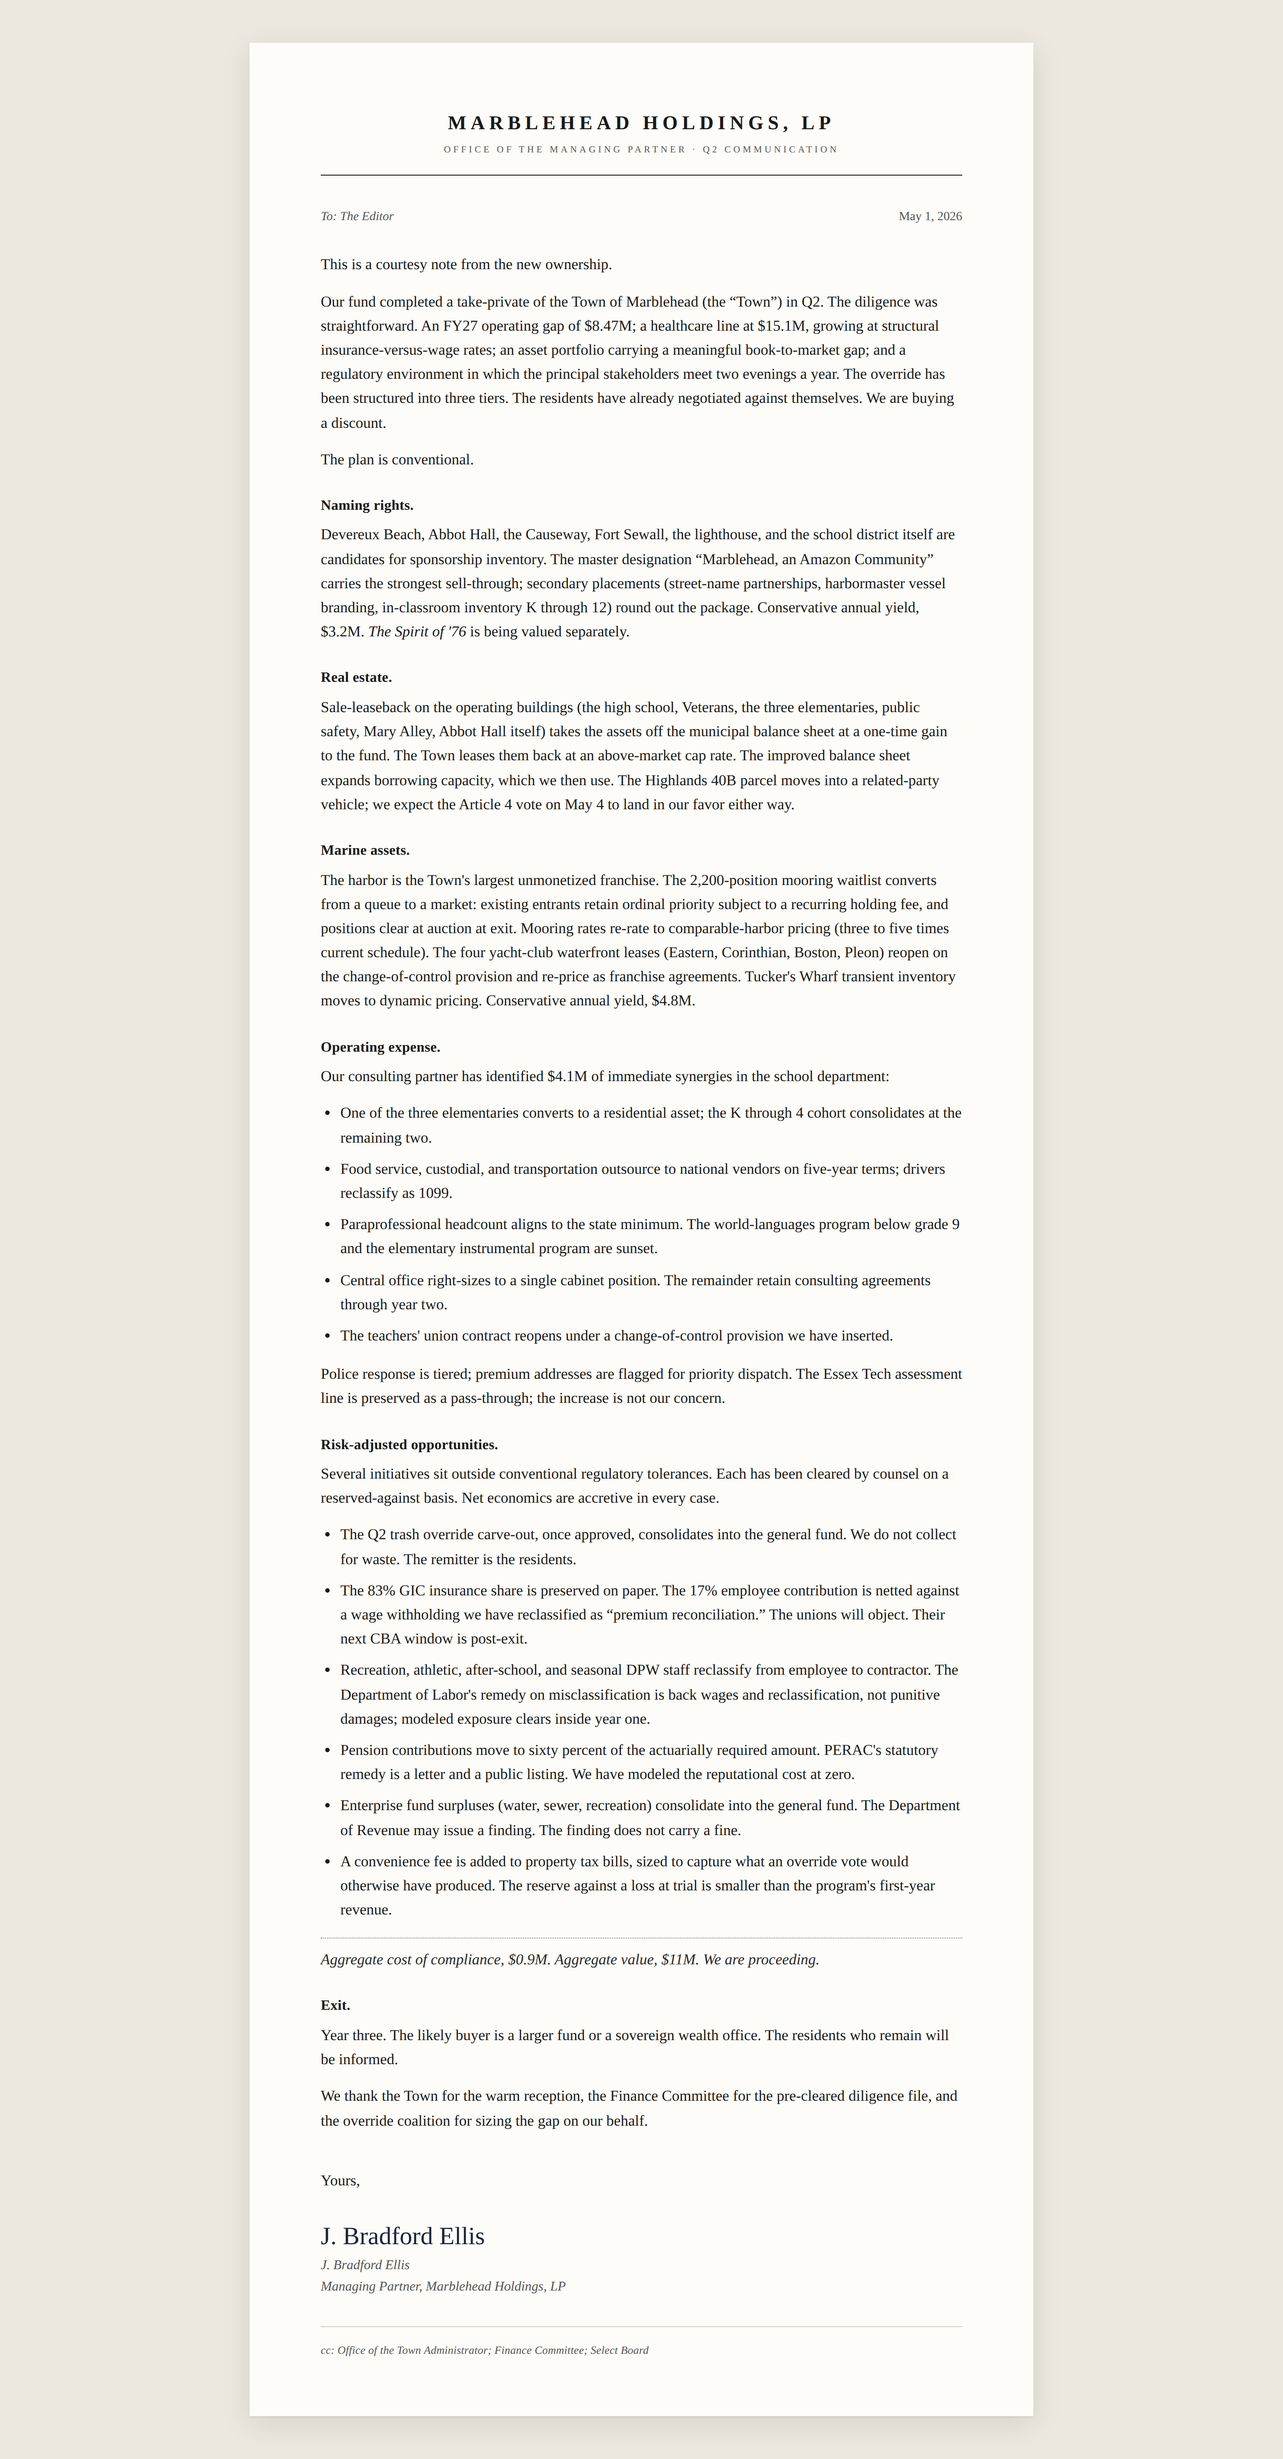
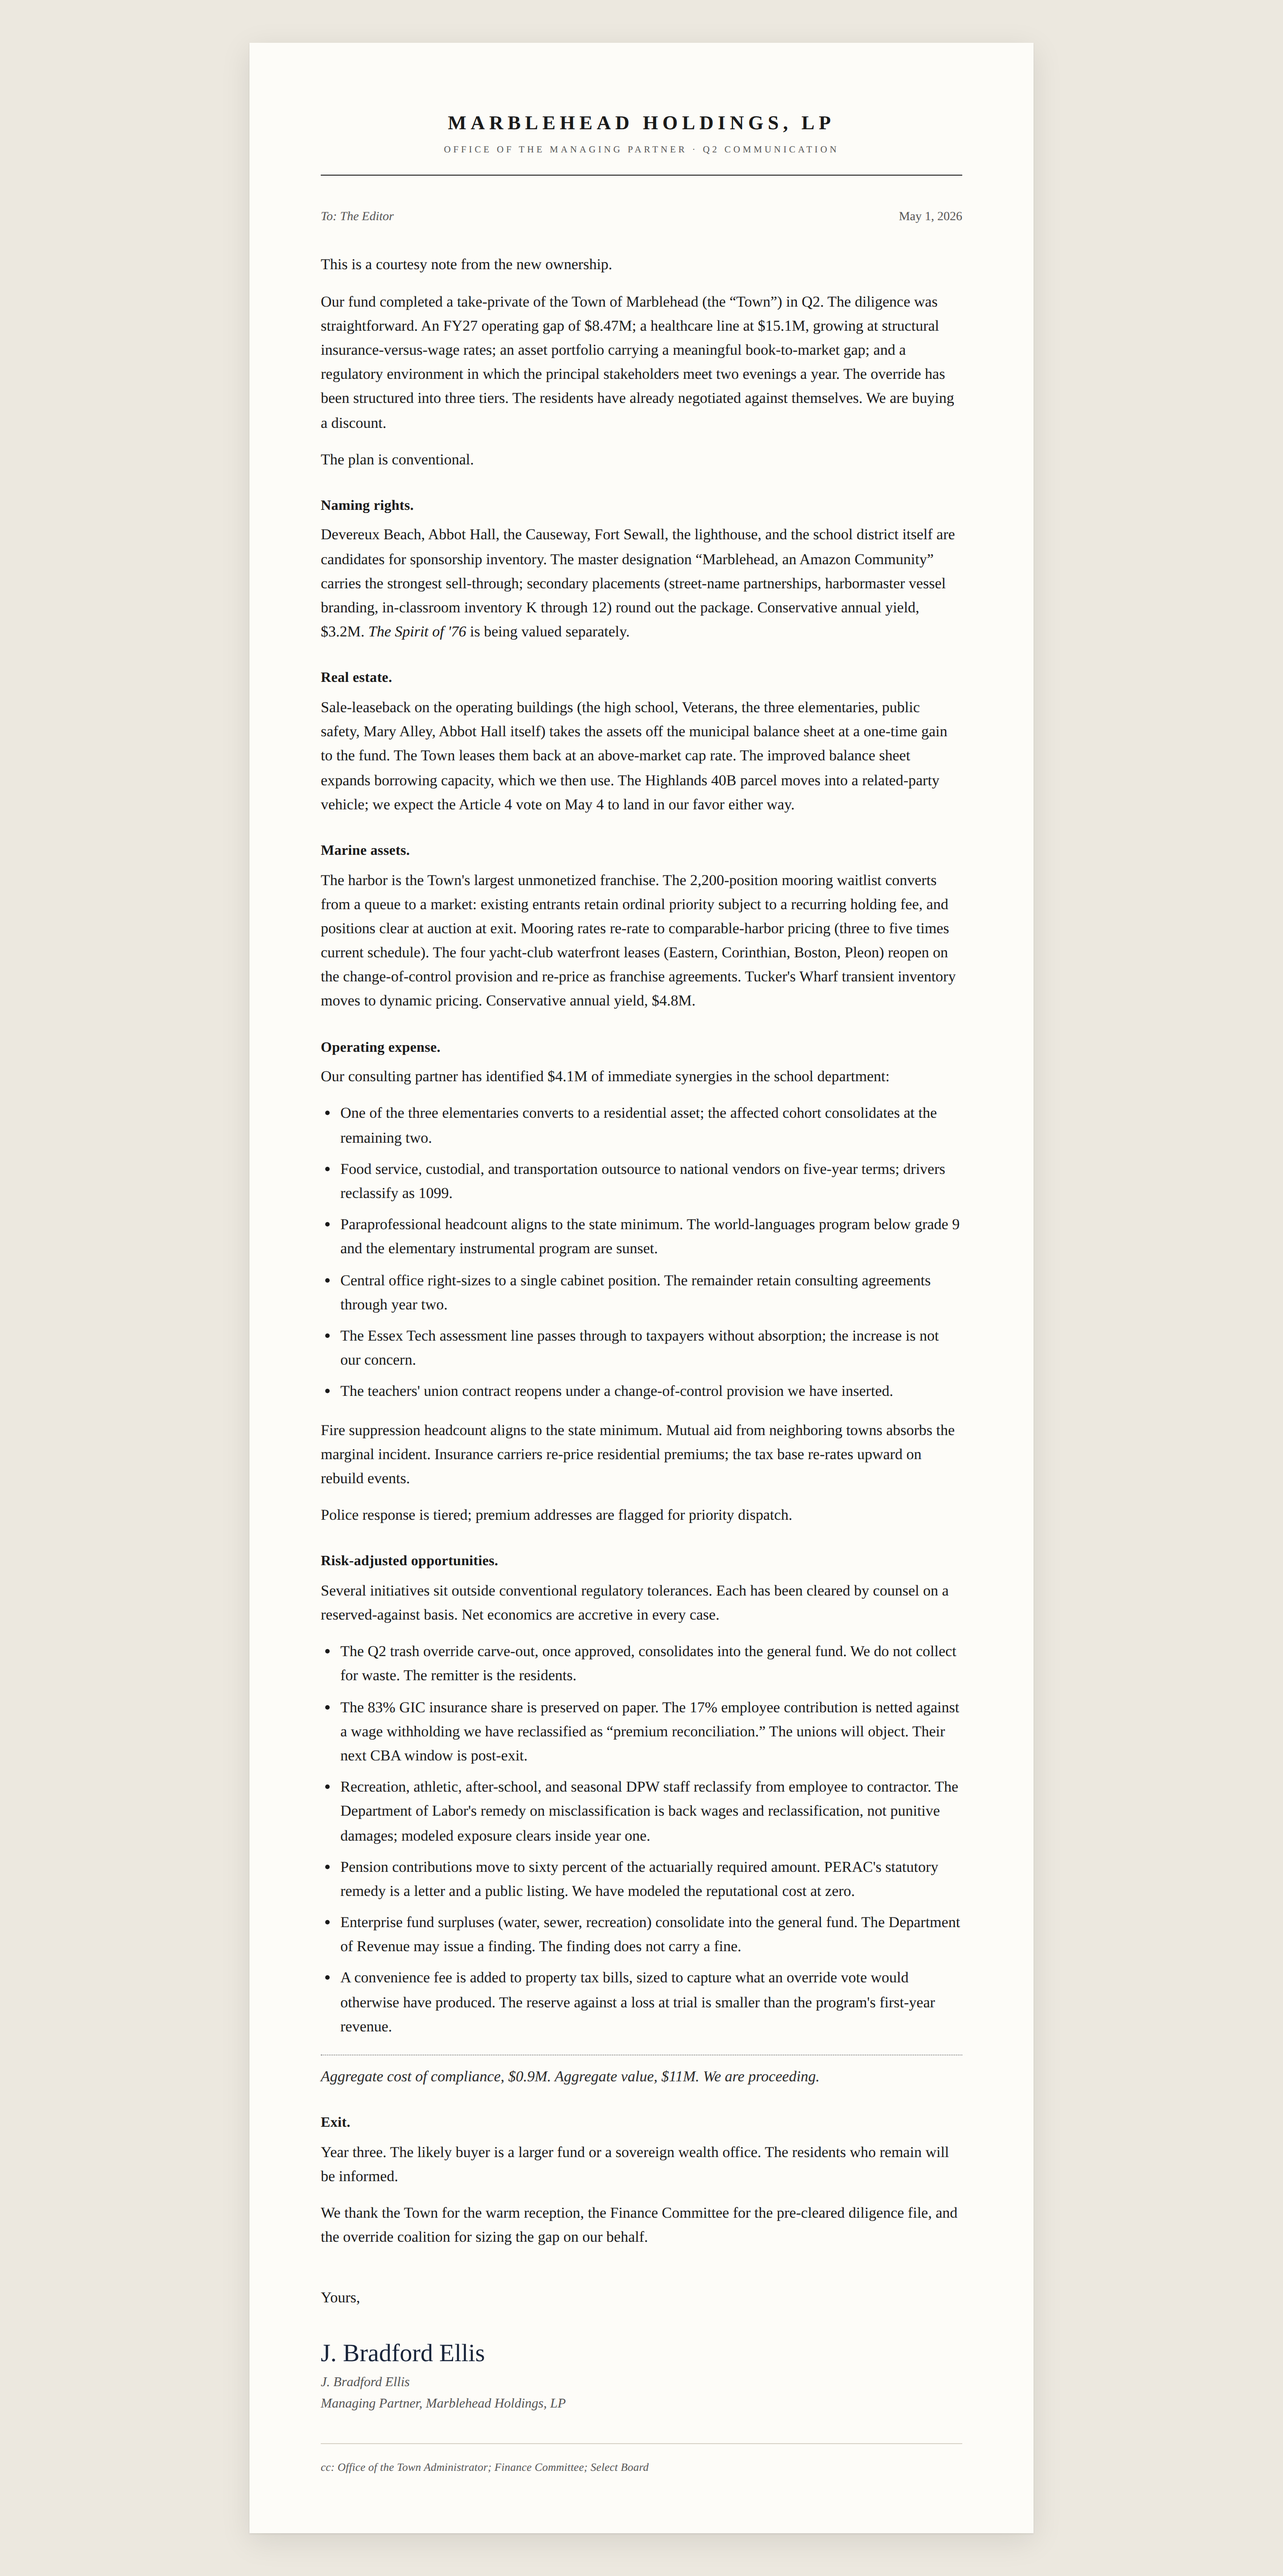
Add fire department beat; split police and Essex Tech; correct school cohort framing
- Adds a fire-suppression paragraph before the police line: minimum staffing, mutual-aid free-ride, insurance reprice, "tax base re-rates upward on rebuild events."
- Moves the Essex Tech assessment beat into the school bullets where it belongs as a school-budget item.
- Police gets its own one-sentence paragraph instead of hitchhiking on the Essex Tech line.
- Fixes the elementary cohort line: "K through 4" did not match Marblehead's actual grade structure (Brown/Glover are PK-3, Village is 4-6). Replaced with "the affected cohort" — accurate without naming a closure target.

diff --git a/docs/acquisition-letter.html b/docs/acquisition-letter.html
@@ -164,13 +164,15 @@
   <h2>Operating expense.</h2>
   <p>Our consulting partner has identified $4.1M of immediate synergies in the school department:</p>
   <ul>
-    <li>One of the three elementaries converts to a residential asset; the K through 4 cohort consolidates at the remaining two.</li>
+    <li>One of the three elementaries converts to a residential asset; the affected cohort consolidates at the remaining two.</li>
     <li>Food service, custodial, and transportation outsource to national vendors on five-year terms; drivers reclassify as 1099.</li>
     <li>Paraprofessional headcount aligns to the state minimum. The world-languages program below grade 9 and the elementary instrumental program are sunset.</li>
     <li>Central office right-sizes to a single cabinet position. The remainder retain consulting agreements through year two.</li>
+    <li>The Essex Tech assessment line passes through to taxpayers without absorption; the increase is not our concern.</li>
     <li>The teachers' union contract reopens under a change-of-control provision we have inserted.</li>
   </ul>
-  <p>Police response is tiered; premium addresses are flagged for priority dispatch. The Essex Tech assessment line is preserved as a pass-through; the increase is not our concern.</p>
+  <p>Fire suppression headcount aligns to the state minimum. Mutual aid from neighboring towns absorbs the marginal incident. Insurance carriers re-price residential premiums; the tax base re-rates upward on rebuild events.</p>
+  <p>Police response is tiered; premium addresses are flagged for priority dispatch.</p>
 
   <h2>Risk-adjusted opportunities.</h2>
   <p>Several initiatives sit outside conventional regulatory tolerances. Each has been cleared by counsel on a reserved-against basis. Net economics are accretive in every case.</p>
